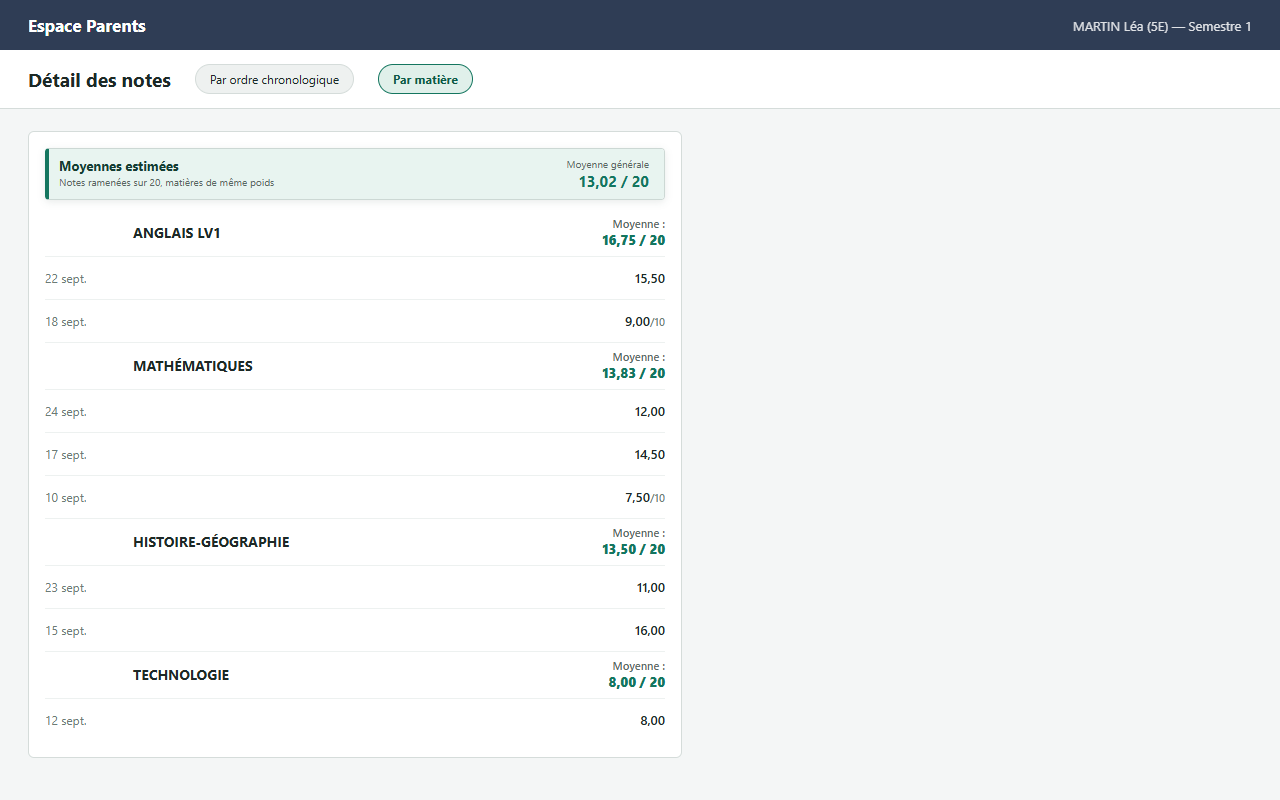
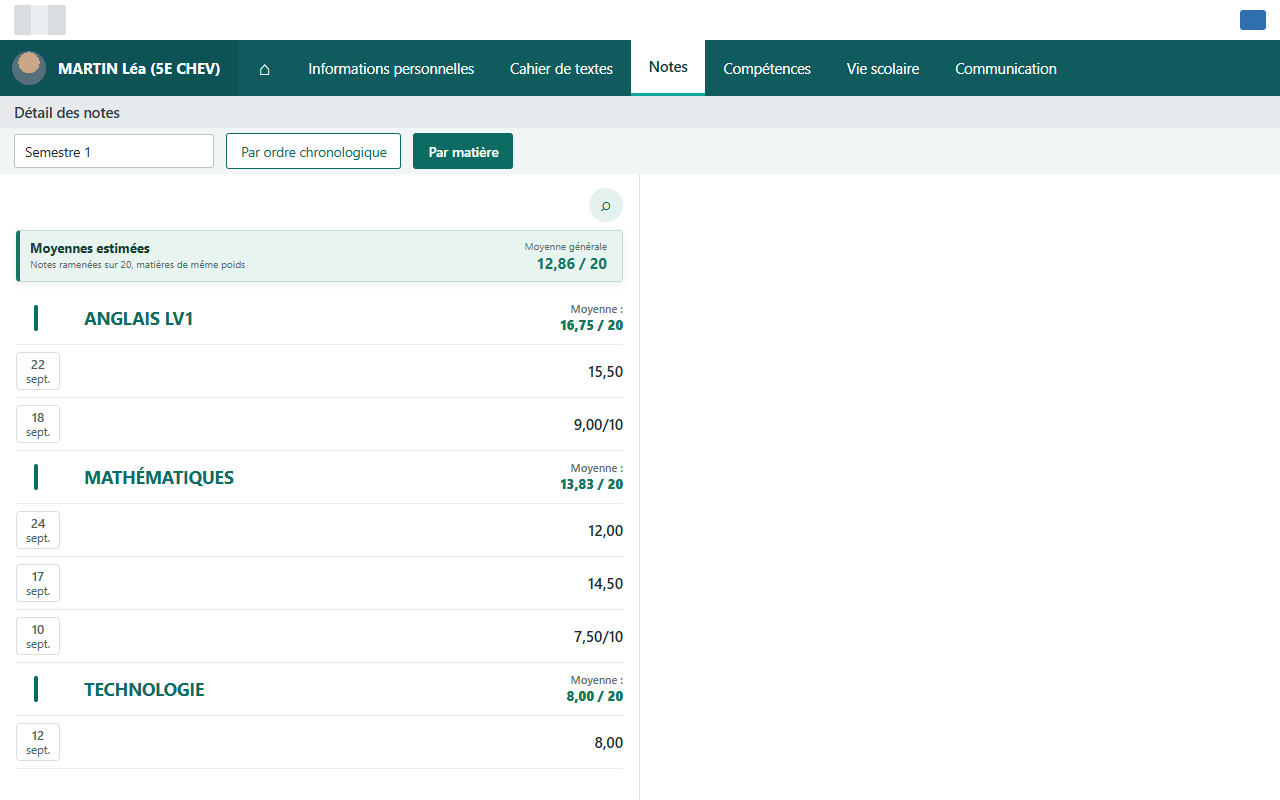
Rend les captures boutique fideles a l'interface PRONOTE

diff --git a/tools/store-screenshot.html b/tools/store-screenshot.html
@@ -5,15 +5,17 @@
   <title>Capture boutique - Moyennes pour PRONOTE</title>
   <link rel="stylesheet" href="../extension/content.css">
   <style>
-    /* Reproduction simplifiee de l'interface PRONOTE avec des donnees fictives. */
+    /* Reproduction fidele de l'interface PRONOTE, avec des donnees fictives. */
     html { font-size: 62.5%; }
+
+    * { box-sizing: border-box; }
 
     body {
       margin: 0;
-      background: #e8ecef;
-      color: #1d2926;
-      font-family: "Segoe UI", Candara, sans-serif;
-      font-size: 1.3rem;
+      color: #1f2a2d;
+      background: #ffffff;
+      font-family: "Segoe UI", Roboto, Arial, sans-serif;
+      font-size: 1.4rem;
     }
 
     #shot {
@@ -22,99 +24,268 @@
       height: 800px;
       overflow: hidden;
       flex-direction: column;
-      background: #f4f6f6;
+      background: #ffffff;
     }
 
-    .banner {
+    .topstrip {
       display: flex;
       align-items: center;
       justify-content: space-between;
-      padding: 14px 28px;
-      color: #ffffff;
-      background: #2f3d55;
+      height: 40px;
+      padding: 0 14px;
+      background: #ffffff;
     }
 
-    .banner strong { font-size: 1.7rem; }
-    .banner span { font-size: 1.3rem; opacity: 0.85; }
+    .crest {
+      width: 52px;
+      height: 30px;
+      background: linear-gradient(90deg, #d7dde0 0 33%, #eceff1 33% 66%, #d7dde0 66%);
+      border-radius: 2px;
+    }
 
-    .subheader {
+    .cardicon {
+      width: 26px;
+      height: 20px;
+      background: #2f6fb0;
+      border-radius: 3px;
+    }
+
+    .mainbar {
+      display: flex;
+      align-items: stretch;
+      height: 56px;
+      color: #ffffff;
+      background: #0f5b5d;
+    }
+
+    .student {
       display: flex;
       align-items: center;
-      gap: 24px;
-      padding: 14px 28px;
-      background: #ffffff;
-      border-bottom: 1px solid #d5dcda;
-    }
-
-    .subheader h1 { margin: 0; font-size: 1.9rem; }
-
-    .pill {
-      padding: 6px 14px;
-      background: #eef1f0;
-      border: 1px solid #d5dcda;
-      border-radius: 20px;
-      font-size: 1.2rem;
-    }
-
-    .pill.is-active {
-      color: #0d5a46;
-      background: #e0f0ea;
-      border-color: #14765f;
+      gap: 12px;
+      padding: 0 18px 0 12px;
+      background: #0d5254;
+      font-size: 1.5rem;
       font-weight: 700;
+      white-space: nowrap;
     }
 
-    .content { flex: 1; padding: 22px 28px; }
+    .avatar {
+      width: 34px;
+      height: 34px;
+      background: radial-gradient(circle at 50% 35%, #c9a88a 0 38%, #55707a 38%);
+      border-radius: 50%;
+    }
 
-    .panel-host {
-      width: 620px;
-      padding: 16px;
+    .tabs {
+      display: flex;
+      align-items: stretch;
+      margin: 0;
+      padding: 0;
+      list-style: none;
+    }
+
+    .tabs li {
+      display: flex;
+      align-items: center;
+      padding: 0 18px;
+      font-size: 1.45rem;
+      line-height: 1.15;
+      text-align: center;
+    }
+
+    .tabs li.home { padding: 0 20px; font-size: 1.9rem; }
+
+    .tabs li.is-active {
+      color: #123c3e;
       background: #ffffff;
-      border: 1px solid #d5dcda;
-      border-radius: 6px;
+      border-bottom: 3px solid #0aa89a;
+      font-weight: 600;
     }
 
-    .liste_contenu_cellule { border-top: 1px solid #edf1f0; }
-    .liste_contenu_cellule:first-of-type { border-top: 0; }
+    .tabs .two-lines { display: block; }
 
-    .liste_contenu_ligne { display: flex; align-items: center; gap: 14px; min-height: 42px; }
-    .zone-gauche { width: 74px; color: #6c7b76; font-size: 1.2rem; }
+    .pagetitle {
+      display: flex;
+      align-items: center;
+      height: 32px;
+      padding: 0 14px;
+      color: #2b3a3d;
+      background: #e6eaec;
+      font-size: 1.45rem;
+      font-weight: 600;
+    }
+
+    .toolbar {
+      display: flex;
+      align-items: center;
+      gap: 12px;
+      height: 46px;
+      padding: 0 14px;
+      background: #f2f5f6;
+    }
+
+    .period {
+      width: 200px;
+      padding: 7px 10px;
+      background: #ffffff;
+      border: 1px solid #b9c4c7;
+      border-radius: 3px;
+      font-size: 1.35rem;
+    }
+
+    .toggle {
+      padding: 8px 14px;
+      color: #0c6b62;
+      background: #ffffff;
+      border: 1px solid #0c6b62;
+      border-radius: 3px;
+      font-size: 1.35rem;
+    }
+
+    .toggle.is-active {
+      color: #ffffff;
+      background: #0c6b62;
+      font-weight: 600;
+    }
+
+    .workspace {
+      display: flex;
+      flex: 1;
+      min-height: 0;
+    }
+
+    .column {
+      width: 640px;
+      padding: 14px 16px 0;
+      border-right: 1px solid #dfe4e6;
+    }
+
+    .searchrow {
+      display: flex;
+      justify-content: flex-end;
+      padding-bottom: 8px;
+    }
+
+    .search {
+      display: grid;
+      width: 34px;
+      height: 34px;
+      place-items: center;
+      background: #e4f1ef;
+      border-radius: 50%;
+      color: #0c6b62;
+      font-size: 1.7rem;
+    }
+
+    .liste_contenu_cellule { border-bottom: 1px solid #e7ebec; }
+
+    .liste_contenu_ligne {
+      display: flex;
+      align-items: center;
+      gap: 14px;
+      min-height: 52px;
+    }
+
+    .zone-gauche { width: 54px; flex: 0 0 auto; }
+
+    .date-contain {
+      display: grid;
+      width: 44px;
+      padding: 4px 0;
+      background: #ffffff;
+      border: 1px solid #d9dfe1;
+      border-radius: 4px;
+      color: #4d5d61;
+      font-size: 1.15rem;
+      line-height: 1.15;
+      text-align: center;
+    }
+
+    .date-contain b { display: block; font-size: 1.3rem; font-weight: 600; }
+
     .zone-centrale { flex: 1; min-width: 0; }
     .zone-contenu-format { display: flex; align-items: center; gap: 14px; }
     .zone-principale { flex: 1; min-width: 0; }
-    .titre-principal { font-size: 1.3rem; }
-    .ie-titre-gros { font-size: 1.4rem; font-weight: 700; }
-    .zone-complementaire { margin-left: auto; text-align: right; }
-    .note-devoir { font-size: 1.3rem; font-weight: 600; }
-    .note-devoir span { color: #6c7b76; font-size: 1.1rem; }
+    .titre-principal { font-size: 1.45rem; }
 
-    [aria-level="1"] .liste_contenu_ligne { min-height: 46px; }
+    .ie-titre-gros {
+      color: #0c6b62;
+      font-size: 1.75rem;
+      font-weight: 700;
+    }
+
+    .zone-gauche .ie-line-color {
+      display: block;
+      width: 4px;
+      height: 26px;
+      margin-left: 18px;
+      background: #0c6b62;
+      border-radius: 2px;
+    }
+
+    .zone-complementaire { margin-left: auto; text-align: right; }
+
+    .note-devoir {
+      color: #1f2a2d;
+      font-size: 1.5rem;
+      font-weight: 600;
+    }
+
+    [aria-level="1"] .liste_contenu_ligne { min-height: 52px; }
+    [aria-level="1"] { border-bottom: 1px solid #e7ebec; }
   </style>
 </head>
 <body>
   <div id="shot">
-    <div class="banner">
-      <strong>Espace Parents</strong>
-      <span>MARTIN Léa (5E) — Semestre 1</span>
+    <div class="topstrip">
+      <div class="crest" aria-hidden="true"></div>
+      <div class="cardicon" aria-hidden="true"></div>
     </div>
-    <div class="subheader">
-      <h1>Détail des notes</h1>
-      <span class="pill" id="pill-chrono">Par ordre chronologique</span>
-      <span class="pill" id="pill-matiere">Par matière</span>
+
+    <div class="mainbar">
+      <div class="student">
+        <span class="avatar" aria-hidden="true"></span>
+        MARTIN Léa (5E CHEV)
+      </div>
+      <ul class="tabs">
+        <li class="home">⌂</li>
+        <li><span class="two-lines">Informations</span><span class="two-lines">&nbsp;personnelles</span></li>
+        <li><span class="two-lines">Cahier</span><span class="two-lines">&nbsp;de textes</span></li>
+        <li class="is-active">Notes</li>
+        <li>Compétences</li>
+        <li><span class="two-lines">Vie</span><span class="two-lines">&nbsp;scolaire</span></li>
+        <li>Communication</li>
+      </ul>
     </div>
-    <div class="content">
-      <div class="panel-host">
-        <div role="tree" aria-label="Détail des notes" id="tree"></div>
+
+    <div class="pagetitle">Détail des notes</div>
+
+    <div class="toolbar">
+      <span class="period">Semestre 1</span>
+      <span class="toggle" id="pill-chrono">Par ordre chronologique</span>
+      <span class="toggle" id="pill-matiere">Par matière</span>
+    </div>
+
+    <div class="workspace">
+      <div class="column">
+        <div class="searchrow"><span class="search" aria-hidden="true">⌕</span></div>
+        <div class="listhost">
+          <div role="tree" aria-label="Détail des notes" id="tree"></div>
+        </div>
       </div>
     </div>
   </div>
 
   <script>
     const DATA = [
-      ["ANGLAIS LV1", [["22 sept.", "15,50", null], ["18 sept.", "9,00", "10"]]],
-      ["MATHÉMATIQUES", [["24 sept.", "12,00", null], ["17 sept.", "14,50", null], ["10 sept.", "7,50", "10"]]],
-      ["HISTOIRE-GÉOGRAPHIE", [["23 sept.", "11,00", null], ["15 sept.", "16,00", null]]],
-      ["TECHNOLOGIE", [["12 sept.", "8,00", null]]],
+      ["ANGLAIS LV1", [["22", "sept.", "15,50", null], ["18", "sept.", "9,00", "10"]]],
+      ["MATHÉMATIQUES", [["24", "sept.", "12,00", null], ["17", "sept.", "14,50", null], ["10", "sept.", "7,50", "10"]]],
+      ["TECHNOLOGIE", [["12", "sept.", "8,00", null]]],
     ];
+
+    function dateChip(day, month) {
+      return `<time class="date-contain"><b>${day}</b>${month}</time>`;
+    }
 
     function noteCell(value, scale) {
       const label = scale ? `${value}/${scale}` : value;
@@ -141,9 +312,9 @@
       const parts = [];
       if (view === "matiere") {
         for (const [subject, notes] of DATA) {
-          parts.push(row(1, "", `<div class="titre-principal"><span class="ie-titre-gros">${subject}</span></div>`, ""));
-          for (const [date, value, scale] of notes) {
-            parts.push(row(2, `<time class="date-contain">${date}</time>`, "", noteCell(value, scale)));
+          parts.push(row(1, '<span class="ie-line-color"></span>', `<div class="titre-principal"><span class="ie-titre-gros">${subject}</span></div>`, ""));
+          for (const [day, month, value, scale] of notes) {
+            parts.push(row(2, dateChip(day, month), "", noteCell(value, scale)));
           }
         }
       } else {
@@ -151,9 +322,9 @@
         for (const [subject, notes] of DATA) {
           for (const note of notes) flat.push([subject, ...note]);
         }
-        flat.sort((a, b) => Number(b[1].split(" ")[0]) - Number(a[1].split(" ")[0]));
-        for (const [subject, date, value, scale] of flat) {
-          parts.push(row(2, `<time class="date-contain">${date}</time>`, `<div class="titre-principal"><div class="ie_ellipsis">${subject}</div></div>`, noteCell(value, scale)));
+        flat.sort((a, b) => Number(b[1]) - Number(a[1]));
+        for (const [subject, day, month, value, scale] of flat) {
+          parts.push(row(2, dateChip(day, month), `<div class="titre-principal"><div class="ie_ellipsis">${subject}</div></div>`, noteCell(value, scale)));
         }
       }
       tree.innerHTML = parts.join("");
